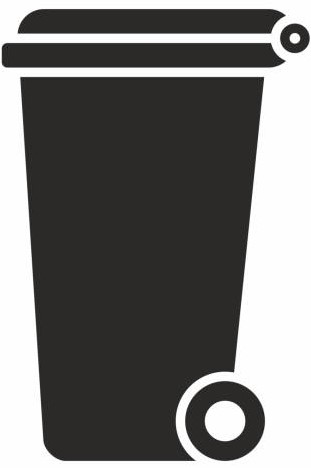
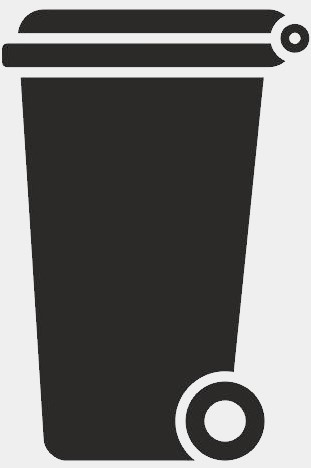
fixed UPRN wipe and added MCC styling

diff --git a/src/pages.js b/src/pages.js
@@ -7,6 +7,9 @@ import * as BinDataFunctions from './BinDataFunctions.js';
 import MCCLogo from "./Images/MCCLogo.PNG";
 import settingsIcon from "./Images/settings.png";
 
+/**
+ * Display a heading with navigation links and MCC Branding.
+ */
 export function Heading() {
     return (
         <div className="header">
@@ -16,6 +19,10 @@ export function Heading() {
     );
 }
 
+/**
+ * Display the home page. If a UPRN has not been set, it asks the user to update it in the settings.
+ * This is to avoid errors from null values.
+ */
 export function Home() {
 
     const uprn = localStorage.getItem('uprn');
@@ -40,34 +47,17 @@ export function Home() {
     }
 }
 
-const formReducer = (state, event) => {
-    return {
-        ...state,
-        [event.name]: event.value
-    }
-}
-
+/**
+ * Display the Settings Page with a form for the user to enter their details and preferences.
+ */
 export function UserInfo() {
-
-    const [formData, setFormData] = useReducer(formReducer, {});
-
-    const handleChange = event => {
-        setFormData({
-            name: event.target.name,
-            value: event.target.value,
-        });
-    }
 
     return (
         <div>
             <h2>Settings</h2>
-            <form name="settingsForm" onSubmit={(e) => { localStorage.setItem('uprn', formData.address); e.preventDefault(); }}>
+            <form name="settingsForm" onSubmit={(e) => { localStorage.setItem('uprn', document.getElementById("address").value); e.preventDefault(); }}>
                 <h3>Your Location</h3>
-                <label htmlFor="address">select Address:</label> <br />
-                <select name="address" id="address" onChange={handleChange}>
-                {displayAddressOptions(addressData)}
-                </select>
-                <button onClick={localStorage.setItem('uprn', "undefined")}>Clear data</button>
+                {displayAddressSelect(addressData)}
                 <h3>Notifications</h3>
                 <input type="checkbox" id="notificationOn" name="notificationOn"></input>
                 <label htmlFor="notificationOn">Turn on notifications the day before your collection</label><br />
@@ -75,22 +65,32 @@ export function UserInfo() {
                 <label htmlFor="time">Time of notification</label><br />
                 <button type="submit">Save Changes</button>
             </form>
+            <h3>Your Data</h3>
+            <button onClick={(e) => localStorage.setItem('uprn', "undefined")}>Clear data</button>
         </div>
     );
 }
 
-function displayAddressOptions(addressData){
+/**
+ * Create a dynamic address lookup that sets the default value to the currently selected UPRN
+ * Pulled out as a seperate function for neatness and also so it can be easily replaced by the GazOps API.
+ * @param addressData - A temporary JSON of the test addresses 
+ */
+function displayAddressSelect(addressData){
     return <>
+        <label htmlFor="address">select Address:</label> <br />
+        <select name="address" id="address" defaultValue={localStorage.getItem('uprn')}>
         {addressData.map(address => {
-            if (address.uprn == localStorage.getItem('uprn')) {
-                return <option value={address.uprn} selected>{address.address}</option>
-            } else {
-                return <option value={address.uprn}>{address.address}</option>;
-            }
+            return <option value={address.uprn}>{address.address}</option>;
         })}
+        </select>
     </>
 }
 
+/**
+ * Display the first collection listed in the JSON file.
+ * @param uprn 
+ */
 export function BinData(uprn) {
 
     //Production release will get the binJSON from the Biffa API call
@@ -108,6 +108,9 @@ export function BinData(uprn) {
     return UserInfo();
 }
 
+/**
+ * Display a page showing all future collections barring the first one.
+ */
 export function FutureCollections() {
 
     var {search} = useLocation();
@@ -121,6 +124,9 @@ export function FutureCollections() {
     );
 }
 
+/**
+ * Display a segment with links to the bin issue pages from the website.
+ */
 export function ReportAnIssue() {
     return (
         <div>
@@ -140,6 +146,10 @@ export function ReportAnIssue() {
     )
 }
 
+/**
+ * Display a link to information about what goes in each bin.
+ * Production version will have seperate pages for each bin linked from the bin images themselves.
+ */
 export function recycling() {
     return (
         <div>

diff --git a/src/App.css b/src/App.css
@@ -1,12 +1,21 @@
 /* Font is specific to MCC, need to host internally to access */
+
+* {
+  background-color: #efefef;
+}
+
 .App {
   text-align: center;
   font-family: 'Helvetica Neue', 'Helvetica', sans-serif;
+  line-height: 1.71428571em;
 }
 
 .header {
   background-color: black;
-  color: white;
+}
+
+.header a {
+  background-color: black;
 }
 
 h2 {
@@ -27,12 +36,56 @@ h3 {
   font-weight: normal ;
 }
 
+a {
+  color: #2B5E80;
+  text-decoration: none;
+  padding-bottom: 1px;
+  border-bottom: 1px solid #2B5E80;
+  font-weight: 500;
+}
+
+ul {
+  display: block;
+  list-style-type: disc;
+  padding: 0 0 0 7.14285714%;
+}
+
 ul, form {
   text-align: left;
 }
 
-input, label, select, button, h3 {
+input, label, button, h3 {
   margin-left: 5%;
+}
+
+select {
+  padding: 4px;
+  font-size: 100%;
+  margin: 0;
+  vertical-align: baseline;
+  align-items: flex-start;
+  overflow-x: hidden;
+  overflow-y: scroll;
+  white-space: nowrap;
+  border-width: 1px;
+  border-style: solid;
+  border-image: initial;
+  border-radius: 2px;
+  font: 400 13.3333px Arial;
+}
+
+button {
+  background-color: #a62639;
+  border: 1px solid #a62639;
+  display: inline-block;
+  padding: .75rem 1rem;
+  text-decoration: none;
+  text-shadow: 1px 1px 1px rgb(0 0 0 / 0%);
+  text-align: center;
+  font-size: 12px;
+  box-shadow: none;
+  color: #FFFFFF;
+  display: block;
 }
 
 .bin-image {
